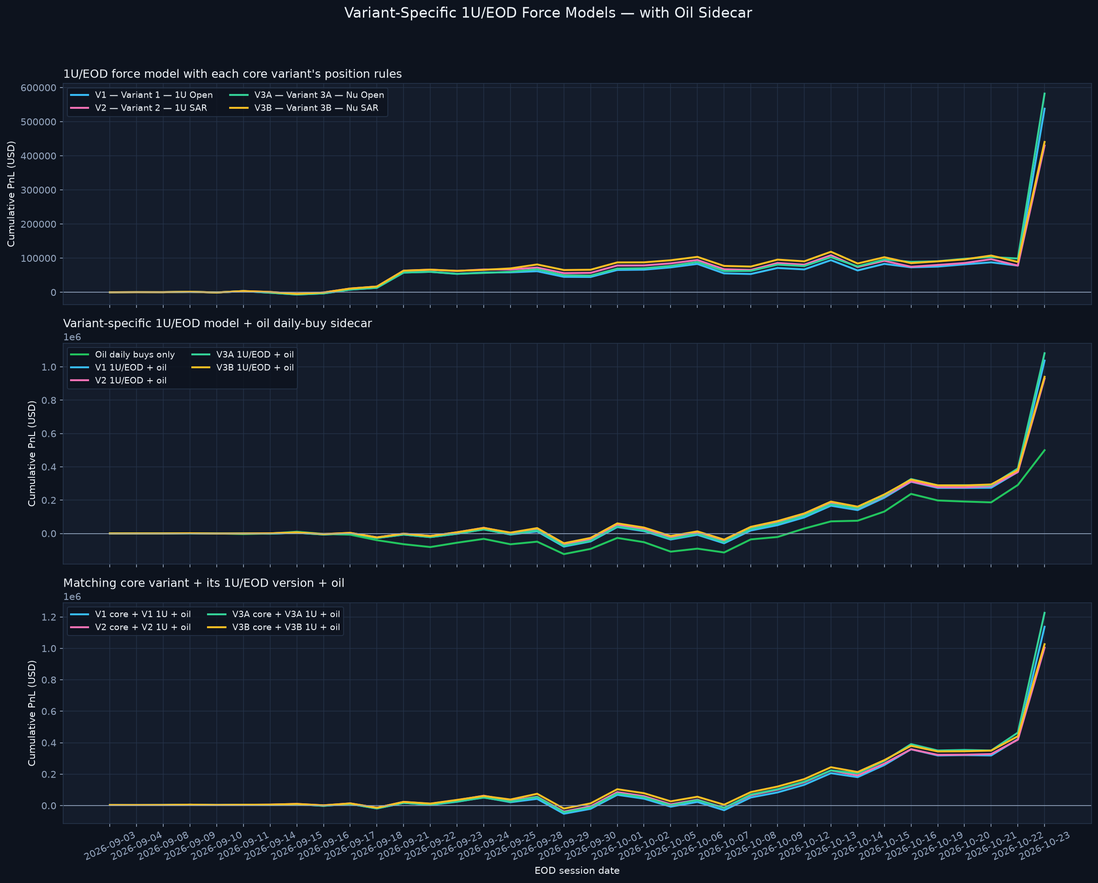
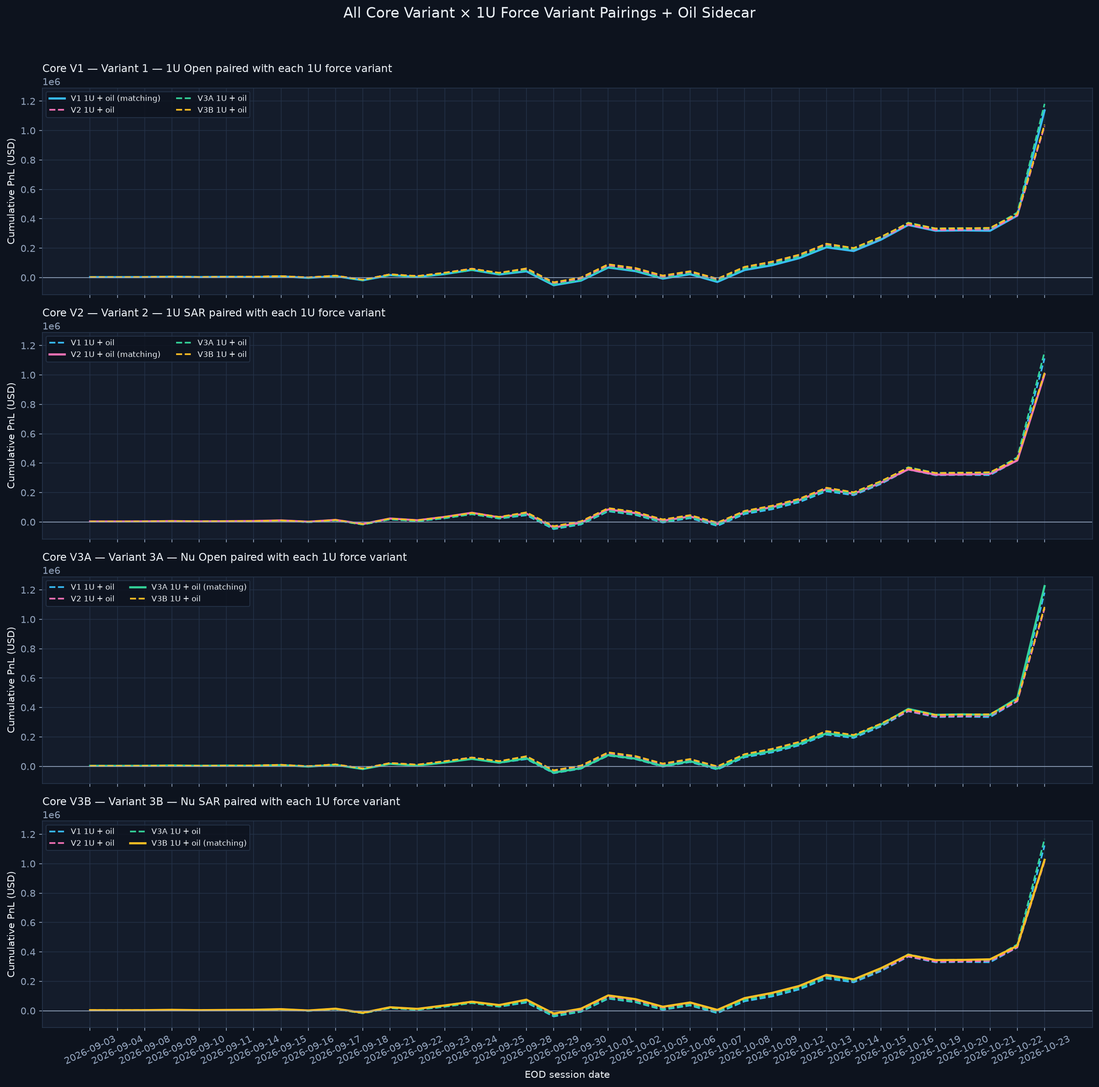
Add cross-variant core and 1U combinations

diff --git a/scripts/build_strategy_sidecar_comparison.py b/scripts/build_strategy_sidecar_comparison.py
@@ -376,13 +376,6 @@ def comparison_rows():
             variant_pnl = float(variant_row[f"{variant}_force_1u_pnl_usd"])
             variant_added = float(variant_row[f"{variant}_force_1u_cumulative_notional_added_usd"])
             variant_open = float(variant_row[f"{variant}_force_1u_open_notional_usd"])
-            core_open = sum(
-                lot["qty"] * UNIT
-                for lot in core[variant]["lots"]
-                if lot["entry_idx"] <= i
-                and (lot["close_idx"] is None or i < lot["close_idx"])
-            )
-            core_added = float(core[variant]["deployed"][i])
             row[f"{variant}_core_pnl_usd"] = f"{base:.2f}"
             row[f"{variant}_plus_exponential_500_pnl_usd"] = f"{base + exp_pnl:.2f}"
             row[f"{variant}_plus_force_multiplier_pnl_usd"] = f"{base + force_pnl:.2f}"
@@ -392,10 +385,32 @@ def comparison_rows():
             row[f"{variant}_force_1u_plus_oil_pnl_usd"] = f"{variant_pnl + oil_today:.2f}"
             row[f"{variant}_force_1u_plus_oil_cumulative_notional_usd"] = f"{variant_added + oil_open_today:.2f}"
             row[f"{variant}_force_1u_plus_oil_open_notional_usd"] = f"{variant_open + oil_open_today:.2f}"
-            row[f"{variant}_core_plus_matching_force_1u_and_oil_pnl_usd"] = f"{base + variant_pnl + oil_today:.2f}"
-            row[f"{variant}_core_plus_matching_force_1u_and_oil_cumulative_notional_usd"] = f"{core_added + variant_added + oil_open_today:.2f}"
-            row[f"{variant}_core_plus_matching_force_1u_and_oil_open_notional_usd"] = f"{core_open + variant_open + oil_open_today:.2f}"
             row.update({key: value for key, value in variant_row.items() if key != "date"})
+
+        for core_variant in VARIANTS:
+            core_pnl = float(core[core_variant]["total"][i])
+            core_added = float(core[core_variant]["deployed"][i])
+            core_open = sum(
+                lot["qty"] * UNIT
+                for lot in core[core_variant]["lots"]
+                if lot["entry_idx"] <= i
+                and (lot["close_idx"] is None or i < lot["close_idx"])
+            )
+            for force_variant in VARIANTS:
+                force_variant_row = variant_daily[force_variant][i]
+                force_variant_pnl = float(force_variant_row[f"{force_variant}_force_1u_pnl_usd"])
+                force_variant_added = float(
+                    force_variant_row[f"{force_variant}_force_1u_cumulative_notional_added_usd"]
+                )
+                force_variant_open = float(force_variant_row[f"{force_variant}_force_1u_open_notional_usd"])
+                prefix = f"{core_variant}_core_plus_{force_variant}_force_1u_and_oil"
+                row[f"{prefix}_pnl_usd"] = f"{core_pnl + force_variant_pnl + oil_today:.2f}"
+                row[f"{prefix}_cumulative_notional_usd"] = (
+                    f"{core_added + force_variant_added + oil_open_today:.2f}"
+                )
+                row[f"{prefix}_open_notional_usd"] = (
+                    f"{core_open + force_variant_open + oil_open_today:.2f}"
+                )
         row.update(exp)
         row.update(force)
         rows.append(row)
@@ -518,56 +533,47 @@ def write_chart(rows):
 
 
 def write_variant_chart(rows):
-    """Focused chart for variant-specific 1U/EOD force models and oil composites."""
+    """Plot every core-variant x 1U-variant pairing with the oil sidecar."""
     CHARTS.mkdir(parents=True, exist_ok=True)
     dates = [row["date"] for row in rows]
-    variants = {
-        variant: [float(row[f"{variant}_force_1u_pnl_usd"]) for row in rows]
-        for variant in VARIANTS
-    }
-    with_oil = {
-        variant: [float(row[f"{variant}_force_1u_plus_oil_pnl_usd"]) for row in rows]
-        for variant in VARIANTS
-    }
-    matched = {
-        variant: [float(row[f"{variant}_core_plus_matching_force_1u_and_oil_pnl_usd"]) for row in rows]
-        for variant in VARIANTS
-    }
-    oil = [float(row["oil_desk_daily_buy_pnl_usd"]) for row in rows]
-    panels = [
-        ("1U/EOD force model with each core variant's position rules", [
-            (f"{variant} — {VARIANT_LABEL[variant]}", variants[variant], VARIANT_COLORS[variant])
-            for variant in VARIANTS
-        ]),
-        ("Variant-specific 1U/EOD model + oil daily-buy sidecar", [
-            ("Oil daily buys only", oil, OIL_COLOR)
-        ] + [
-            (f"{variant} 1U/EOD + oil", with_oil[variant], VARIANT_COLORS[variant])
-            for variant in VARIANTS
-        ]),
-        ("Matching core variant + its 1U/EOD version + oil", [
-            (f"{variant} core + {variant} 1U + oil", matched[variant], VARIANT_COLORS[variant])
-            for variant in VARIANTS
-        ]),
-    ]
-    fig, axes = plt.subplots(len(panels), 1, figsize=(16, 13), sharex=True)
+    fig, axes = plt.subplots(len(VARIANTS), 1, figsize=(16, 16), sharex=True, sharey=True)
     fig.patch.set_facecolor("#0d131e")
-    for ax, (title, lines) in zip(axes, panels):
+    for ax, core_variant in zip(axes, VARIANTS):
         ax.set_facecolor("#141c2b")
         ax.grid(True, color="#26344a", alpha=0.8)
         ax.tick_params(colors="#93a4bd")
         for spine in ax.spines.values():
             spine.set_color("#26344a")
-        for label, values, color in lines:
-            ax.plot(dates, values, color=color, linewidth=2.0, label=label)
+        for force_variant in VARIANTS:
+            prefix = f"{core_variant}_core_plus_{force_variant}_force_1u_and_oil"
+            values = [float(row[f"{prefix}_pnl_usd"]) for row in rows]
+            pairing = " (matching)" if core_variant == force_variant else ""
+            matching = core_variant == force_variant
+            ax.plot(
+                dates,
+                values,
+                color=VARIANT_COLORS[force_variant],
+                linewidth=2.2 if matching else 1.7,
+                linestyle="-" if matching else "--",
+                label=f"{force_variant} 1U + oil{pairing}",
+            )
         ax.axhline(0, color="#93a4bd", linewidth=0.8)
-        ax.set_title(title, color="#edf2f7", loc="left", fontsize=12)
+        ax.set_title(
+            f"Core {core_variant} — {VARIANT_LABEL[core_variant]} paired with each 1U force variant",
+            color="#edf2f7",
+            loc="left",
+            fontsize=11,
+        )
         ax.set_ylabel("Cumulative PnL (USD)", color="#edf2f7")
-        ax.legend(facecolor="#0d131e", edgecolor="#26344a", labelcolor="#edf2f7", fontsize=9, ncol=2)
+        ax.legend(facecolor="#0d131e", edgecolor="#26344a", labelcolor="#edf2f7", fontsize=8, ncol=2)
     axes[-1].set_xlabel("EOD session date", color="#edf2f7")
     axes[-1].tick_params(axis="x", rotation=25)
-    fig.suptitle("Variant-Specific 1U/EOD Force Models — with Oil Sidecar", color="#edf2f7", fontsize=15)
-    fig.tight_layout(rect=(0, 0, 1, 0.95))
+    fig.suptitle(
+        "All Core Variant × 1U Force Variant Pairings + Oil Sidecar",
+        color="#edf2f7",
+        fontsize=15,
+    )
+    fig.tight_layout(rect=(0, 0, 1, 0.96))
     fig.savefig(VARIANT_GRAPH, dpi=150, facecolor=fig.get_facecolor(), bbox_inches="tight")
     plt.close(fig)
     return VARIANT_GRAPH
@@ -593,7 +599,7 @@ def write_report(rows):
         "- **Shared-direction force multiplier (1U/EOD):** one 1U tranche per symbol with a carried direction each priced EOD; close all prior lots at the EOD mark on any LONG/SHORT flip. This remains a separate alternative to the $500 model.",
         "- **Variant-specific 1U/EOD force family:** four separate daily-addition replays apply V1, V2, V3A, or V3B position handling to the 1U schedule. Explicit EXIT/TAKE PROFIT records close open long lots at their logged prices in all four; the carried direction remains active, so the scheduled EOD addition still occurs. V1/V3A leave opposite-side lots open on direction changes. V2/V3B cover shorts on LONG/REBUY at the logged signal price; as in the core implementation, SHORT does not close open longs. A qualifying V3A/V3B compounded-short entry uses the preceding full-exit unit count for that event-day tranche only; subsequent carried days return to 1U additions.",
         "- **Signal timing:** direction-bearing LONG/SHORT/REBUY events map to the first priced session on or after their log date; the last directional event for a ticker on that session selects the EOD addition direction. EXIT / TAKE PROFIT rows do not clear carried direction. No separate authorization feed exists.",
-        "- **Additive comparisons:** core models are shown with shared $500/1U add-ons and oil; variant-specific force models are shown alone, with oil, and with their matching core variant plus oil. These are separately modeled PnL/notional sums: do not net positions or capital, duplicate core chart-opened energy positions in the oil sidecar, or stack alternative force models or variant rules.",
+        "- **Additive comparisons:** core models are shown with shared $500/1U add-ons and oil; variant-specific force models are shown alone, with oil, and in all 16 core-variant × 1U-variant pairings plus oil. Matching and cross-variant combinations are included. These are separately modeled PnL/notional sums: do not net positions or capital, duplicate core chart-opened energy positions in the oil sidecar, or stack alternative force models or variant rules.",
         "- Universe: all 33 directly price-covered core tickers; DXY, EURUSD, JPYUSD, US10Y, and US30Y are outside this price-position comparison.",
         "",
         "## Standalone model and sidecar terminal comparison — Oct. 23, 2026",
@@ -617,11 +623,13 @@ def write_report(rows):
         "",
         "## Variant-specific 1U/EOD force models and oil combinations — terminal",
         "",
-        "These four alternative daily-addition books keep the 1U/EOD schedule but apply each core variant's exit/SAR/short-compounding behavior. The oil line adds only the daily-buy sidecar. The last table adds each variant-based force model to its matching core variant plus oil; it is an additive comparison, not a netted or capital-normalized account.",
+        "The four separate 1U/EOD models apply V1, V2, V3A, or V3B exit/SAR/short-compounding behavior. The oil sidecar contributes only its daily-buy PnL and gross notional. The graph below covers all 16 core-variant × 1U-variant pairings; each panel fixes the core variant and plots all four 1U models. Matching pairings are labeled, while the cross-variant pairings expose alternative position-management combinations.",
         "",
-        "![Variant-specific 1U EOD force models with oil sidecar](Charts/performance/21-force-variant-oil-comparison.png)",
+        "All composite PnL/notional figures are additive USD totals. Positions and capital are not netted, and energy chart-opened core positions are not duplicated in the sidecar.",
         "",
-        "| Variant rule set | Standalone force PnL | Cumulative notional added | Open notional |",
+        "![All core variant and 1U force variant pairings with oil sidecar](Charts/performance/21-force-variant-oil-comparison.png)",
+        "",
+        "| 1U/EOD variant rule | Standalone force PnL | Cumulative notional added | Open notional |",
         "|---|---:|---:|---:|",
     ])
     for variant in VARIANTS:
@@ -632,7 +640,7 @@ def write_report(rows):
         )
     lines.extend([
         "",
-        "| Variant rule set | Force model + oil PnL | Combined cumulative notional | Combined open notional |",
+        "| 1U/EOD variant rule | Force model + oil PnL | Combined cumulative notional | Combined open notional |",
         "|---|---:|---:|---:|",
     ])
     for variant in VARIANTS:
@@ -643,19 +651,29 @@ def write_report(rows):
         )
     lines.extend([
         "",
-        "| Matched core + force variant + oil | Core PnL | Force PnL | Oil PnL | Composite PnL | Gross cumulative notional | Gross open notional |",
-        "|---|---:|---:|---:|---:|---:|---:|",
+        "## All core + 1U force variant pairings + oil — terminal",
+        "",
     ])
-    for variant in VARIANTS:
-        lines.append(
-            f"| {VARIANT_LABEL[variant]} + matching 1U/EOD rules + oil | "
-            f"${float(last[f'{variant}_core_pnl_usd']):+,.2f} | "
-            f"${float(last[f'{variant}_force_1u_pnl_usd']):+,.2f} | "
-            f"${float(last['oil_desk_daily_buy_pnl_usd']):+,.2f} | "
-            f"${float(last[f'{variant}_core_plus_matching_force_1u_and_oil_pnl_usd']):+,.2f} | "
-            f"${float(last[f'{variant}_core_plus_matching_force_1u_and_oil_cumulative_notional_usd']):,.2f} | "
-            f"${float(last[f'{variant}_core_plus_matching_force_1u_and_oil_open_notional_usd']):,.2f} |"
-        )
+    for core_variant in VARIANTS:
+        lines.extend([
+            f"### Core {core_variant} — {VARIANT_LABEL[core_variant]}",
+            "",
+            f"Core PnL: **${float(last[f'{core_variant}_core_pnl_usd']):+,.2f}**; oil sidecar PnL: **${float(last['oil_desk_daily_buy_pnl_usd']):+,.2f}**.",
+            "",
+            "| 1U/EOD force variant | Pairing | Force PnL | Composite PnL | Gross cumulative notional | Gross open notional |",
+            "|---|---|---:|---:|---:|---:|",
+        ])
+        for force_variant in VARIANTS:
+            prefix = f"{core_variant}_core_plus_{force_variant}_force_1u_and_oil"
+            pairing = "Matching" if core_variant == force_variant else "Cross-variant"
+            lines.append(
+                f"| {VARIANT_LABEL[force_variant]} | {pairing} | "
+                f"${float(last[f'{force_variant}_force_1u_pnl_usd']):+,.2f} | "
+                f"${float(last[f'{prefix}_pnl_usd']):+,.2f} | "
+                f"${float(last[f'{prefix}_cumulative_notional_usd']):,.2f} | "
+                f"${float(last[f'{prefix}_open_notional_usd']):,.2f} |"
+            )
+        lines.append("")
     lines.extend([
         "",
         "## Core variants with add-ons — terminal PnL",

diff --git a/tests/test_strategy_sidecar_comparison.py b/tests/test_strategy_sidecar_comparison.py
@@ -12,7 +12,7 @@ from build_strategy_sidecar_comparison import (  # noqa: E402
     force_multiplier_daily_model,
     variant_force_multiplier_daily_model,
 )
-from model_perf_core import SESSION_DATES, parse_trades  # noqa: E402
+from model_perf_core import SESSION_DATES, UNIT, parse_trades  # noqa: E402
 
 
 class StrategySidecarComparisonTests(unittest.TestCase):
@@ -107,8 +107,39 @@ class StrategySidecarComparisonTests(unittest.TestCase):
         self.assertEqual(terminal["V3B_force_1u_pnl_usd"], "440601.08")
         self.assertEqual(terminal["V1_force_1u_plus_oil_pnl_usd"], "1037643.20")
         self.assertEqual(terminal["V3A_force_1u_plus_oil_pnl_usd"], "1081983.96")
-        self.assertEqual(terminal["V1_core_plus_matching_force_1u_and_oil_pnl_usd"], "1137242.87")
-        self.assertEqual(terminal["V3A_core_plus_matching_force_1u_and_oil_pnl_usd"], "1225786.98")
+        combo_count = 0
+        for core_variant in ("V1", "V2", "V3A", "V3B"):
+            core_added = float(core[core_variant]["deployed"][-1])
+            core_open = sum(
+                lot["qty"] * UNIT
+                for lot in core[core_variant]["lots"]
+                if lot["entry_idx"] <= len(rows) - 1
+                and (lot["close_idx"] is None or len(rows) - 1 < lot["close_idx"])
+            )
+            for force_variant in ("V1", "V2", "V3A", "V3B"):
+                prefix = f"{core_variant}_core_plus_{force_variant}_force_1u_and_oil"
+                expected_pnl = (
+                    float(terminal[f"{core_variant}_core_pnl_usd"])
+                    + float(terminal[f"{force_variant}_force_1u_pnl_usd"])
+                    + float(terminal["oil_desk_daily_buy_pnl_usd"])
+                )
+                expected_added = (
+                    core_added
+                    + float(terminal[f"{force_variant}_force_1u_cumulative_notional_added_usd"])
+                    + float(terminal["oil_desk_cumulative_notional_usd"])
+                )
+                expected_open = (
+                    core_open
+                    + float(terminal[f"{force_variant}_force_1u_open_notional_usd"])
+                    + float(terminal["oil_desk_open_notional_usd"])
+                )
+                self.assertEqual(terminal[f"{prefix}_pnl_usd"], f"{expected_pnl:.2f}")
+                self.assertEqual(terminal[f"{prefix}_cumulative_notional_usd"], f"{expected_added:.2f}")
+                self.assertEqual(terminal[f"{prefix}_open_notional_usd"], f"{expected_open:.2f}")
+                combo_count += 1
+        self.assertEqual(combo_count, 16)
+        self.assertEqual(terminal["V1_core_plus_V1_force_1u_and_oil_pnl_usd"], "1137242.87")
+        self.assertEqual(terminal["V3A_core_plus_V3A_force_1u_and_oil_pnl_usd"], "1225786.98")
         self.assertEqual(terminal["oil_desk_cumulative_notional_usd"], "5500000.00")
         before_oil = next(row for row in rows if row["date"] == "2026-09-09")
         first_oil = next(row for row in rows if row["date"] == "2026-09-10")
@@ -123,6 +154,10 @@ class StrategySidecarComparisonTests(unittest.TestCase):
         self.assertIn("Variant-specific 1U/EOD force models and oil combinations", report_text)
         self.assertIn("force_multiplier_variant_eod_positions_v1.csv", report_text)
         self.assertIn("21-force-variant-oil-comparison.png", report_text)
+        self.assertIn("All core + 1U force variant pairings + oil", report_text)
+        self.assertIn("Cross-variant", report_text)
+        self.assertEqual(report_text.count("| Matching |"), 4)
+        self.assertEqual(report_text.count("| Cross-variant |"), 12)
         audit_path = Path(__file__).resolve().parents[1] / "data" / "force_multiplier_eod_positions_v1.csv"
         with audit_path.open(newline="", encoding="utf-8") as handle:
             force_audit = list(csv.DictReader(handle))

diff --git a/Strategy and Sidecar Comparison.md b/Strategy and Sidecar Comparison.md
@@ -11,7 +11,7 @@ Calculation detail for the core variants and daily lot rules: [`Model Calculatio
 - **Shared-direction force multiplier (1U/EOD):** one 1U tranche per symbol with a carried direction each priced EOD; close all prior lots at the EOD mark on any LONG/SHORT flip. This remains a separate alternative to the $500 model.
 - **Variant-specific 1U/EOD force family:** four separate daily-addition replays apply V1, V2, V3A, or V3B position handling to the 1U schedule. Explicit EXIT/TAKE PROFIT records close open long lots at their logged prices in all four; the carried direction remains active, so the scheduled EOD addition still occurs. V1/V3A leave opposite-side lots open on direction changes. V2/V3B cover shorts on LONG/REBUY at the logged signal price; as in the core implementation, SHORT does not close open longs. A qualifying V3A/V3B compounded-short entry uses the preceding full-exit unit count for that event-day tranche only; subsequent carried days return to 1U additions.
 - **Signal timing:** direction-bearing LONG/SHORT/REBUY events map to the first priced session on or after their log date; the last directional event for a ticker on that session selects the EOD addition direction. EXIT / TAKE PROFIT rows do not clear carried direction. No separate authorization feed exists.
-- **Additive comparisons:** core models are shown with shared $500/1U add-ons and oil; variant-specific force models are shown alone, with oil, and with their matching core variant plus oil. These are separately modeled PnL/notional sums: do not net positions or capital, duplicate core chart-opened energy positions in the oil sidecar, or stack alternative force models or variant rules.
+- **Additive comparisons:** core models are shown with shared $500/1U add-ons and oil; variant-specific force models are shown alone, with oil, and in all 16 core-variant × 1U-variant pairings plus oil. Matching and cross-variant combinations are included. These are separately modeled PnL/notional sums: do not net positions or capital, duplicate core chart-opened energy positions in the oil sidecar, or stack alternative force models or variant rules.
 - Universe: all 33 directly price-covered core tickers; DXY, EURUSD, JPYUSD, US10Y, and US30Y are outside this price-position comparison.
 
 ## Standalone model and sidecar terminal comparison — Oct. 23, 2026
@@ -28,30 +28,72 @@ The $500 model ends at **$+21,118.86** (realized $+4,356.35; unrealized $+16,762
 
 ## Variant-specific 1U/EOD force models and oil combinations — terminal
 
-These four alternative daily-addition books keep the 1U/EOD schedule but apply each core variant's exit/SAR/short-compounding behavior. The oil line adds only the daily-buy sidecar. The last table adds each variant-based force model to its matching core variant plus oil; it is an additive comparison, not a netted or capital-normalized account.
+The four separate 1U/EOD models apply V1, V2, V3A, or V3B exit/SAR/short-compounding behavior. The oil sidecar contributes only its daily-buy PnL and gross notional. The graph below covers all 16 core-variant × 1U-variant pairings; each panel fixes the core variant and plots all four 1U models. Matching pairings are labeled, while the cross-variant pairings expose alternative position-management combinations.
 
-![Variant-specific 1U EOD force models with oil sidecar](Charts/performance/21-force-variant-oil-comparison.png)
+All composite PnL/notional figures are additive USD totals. Positions and capital are not netted, and energy chart-opened core positions are not duplicated in the sidecar.
 
-| Variant rule set | Standalone force PnL | Cumulative notional added | Open notional |
+![All core variant and 1U force variant pairings with oil sidecar](Charts/performance/21-force-variant-oil-comparison.png)
+
+| 1U/EOD variant rule | Standalone force PnL | Cumulative notional added | Open notional |
 |---|---:|---:|---:|
 | Variant 1 — 1U Open | $+537,937.28 | $7,280,000.00 | $6,510,000.00 |
 | Variant 2 — 1U SAR | $+429,919.69 | $7,280,000.00 | $6,310,000.00 |
 | Variant 3A — Nu Open | $+582,278.04 | $7,370,000.00 | $6,600,000.00 |
 | Variant 3B — Nu SAR | $+440,601.08 | $7,370,000.00 | $6,310,000.00 |
 
-| Variant rule set | Force model + oil PnL | Combined cumulative notional | Combined open notional |
+| 1U/EOD variant rule | Force model + oil PnL | Combined cumulative notional | Combined open notional |
 |---|---:|---:|---:|
 | Variant 1 — 1U Open + oil | $+1,037,643.20 | $12,780,000.00 | $12,010,000.00 |
 | Variant 2 — 1U SAR + oil | $+929,625.61 | $12,780,000.00 | $11,810,000.00 |
 | Variant 3A — Nu Open + oil | $+1,081,983.96 | $12,870,000.00 | $12,100,000.00 |
 | Variant 3B — Nu SAR + oil | $+940,307.00 | $12,870,000.00 | $11,810,000.00 |
 
-| Matched core + force variant + oil | Core PnL | Force PnL | Oil PnL | Composite PnL | Gross cumulative notional | Gross open notional |
-|---|---:|---:|---:|---:|---:|---:|
-| Variant 1 — 1U Open + matching 1U/EOD rules + oil | $+99,599.67 | $+537,937.28 | $+499,705.92 | $+1,137,242.87 | $13,625,000.00 | $12,705,000.00 |
-| Variant 2 — 1U SAR + matching 1U/EOD rules + oil | $+74,882.36 | $+429,919.69 | $+499,705.92 | $+1,004,507.97 | $13,625,000.00 | $12,455,000.00 |
-| Variant 3A — Nu Open + matching 1U/EOD rules + oil | $+143,803.02 | $+582,278.04 | $+499,705.92 | $+1,225,786.98 | $13,805,000.00 | $12,885,000.00 |
-| Variant 3B — Nu SAR + matching 1U/EOD rules + oil | $+86,049.06 | $+440,601.08 | $+499,705.92 | $+1,026,356.06 | $13,805,000.00 | $12,455,000.00 |
+## All core + 1U force variant pairings + oil — terminal
+
+### Core V1 — Variant 1 — 1U Open
+
+Core PnL: **$+99,599.67**; oil sidecar PnL: **$+499,705.92**.
+
+| 1U/EOD force variant | Pairing | Force PnL | Composite PnL | Gross cumulative notional | Gross open notional |
+|---|---|---:|---:|---:|---:|
+| Variant 1 — 1U Open | Matching | $+537,937.28 | $+1,137,242.87 | $13,625,000.00 | $12,705,000.00 |
+| Variant 2 — 1U SAR | Cross-variant | $+429,919.69 | $+1,029,225.28 | $13,625,000.00 | $12,505,000.00 |
+| Variant 3A — Nu Open | Cross-variant | $+582,278.04 | $+1,181,583.63 | $13,715,000.00 | $12,795,000.00 |
+| Variant 3B — Nu SAR | Cross-variant | $+440,601.08 | $+1,039,906.67 | $13,715,000.00 | $12,505,000.00 |
+
+### Core V2 — Variant 2 — 1U SAR
+
+Core PnL: **$+74,882.36**; oil sidecar PnL: **$+499,705.92**.
+
+| 1U/EOD force variant | Pairing | Force PnL | Composite PnL | Gross cumulative notional | Gross open notional |
+|---|---|---:|---:|---:|---:|
+| Variant 1 — 1U Open | Cross-variant | $+537,937.28 | $+1,112,525.56 | $13,625,000.00 | $12,655,000.00 |
+| Variant 2 — 1U SAR | Matching | $+429,919.69 | $+1,004,507.97 | $13,625,000.00 | $12,455,000.00 |
+| Variant 3A — Nu Open | Cross-variant | $+582,278.04 | $+1,156,866.32 | $13,715,000.00 | $12,745,000.00 |
+| Variant 3B — Nu SAR | Cross-variant | $+440,601.08 | $+1,015,189.36 | $13,715,000.00 | $12,455,000.00 |
+
+### Core V3A — Variant 3A — Nu Open
+
+Core PnL: **$+143,803.02**; oil sidecar PnL: **$+499,705.92**.
+
+| 1U/EOD force variant | Pairing | Force PnL | Composite PnL | Gross cumulative notional | Gross open notional |
+|---|---|---:|---:|---:|---:|
+| Variant 1 — 1U Open | Cross-variant | $+537,937.28 | $+1,181,446.22 | $13,715,000.00 | $12,795,000.00 |
+| Variant 2 — 1U SAR | Cross-variant | $+429,919.69 | $+1,073,428.63 | $13,715,000.00 | $12,595,000.00 |
+| Variant 3A — Nu Open | Matching | $+582,278.04 | $+1,225,786.98 | $13,805,000.00 | $12,885,000.00 |
+| Variant 3B — Nu SAR | Cross-variant | $+440,601.08 | $+1,084,110.02 | $13,805,000.00 | $12,595,000.00 |
+
+### Core V3B — Variant 3B — Nu SAR
+
+Core PnL: **$+86,049.06**; oil sidecar PnL: **$+499,705.92**.
+
+| 1U/EOD force variant | Pairing | Force PnL | Composite PnL | Gross cumulative notional | Gross open notional |
+|---|---|---:|---:|---:|---:|
+| Variant 1 — 1U Open | Cross-variant | $+537,937.28 | $+1,123,692.26 | $13,715,000.00 | $12,655,000.00 |
+| Variant 2 — 1U SAR | Cross-variant | $+429,919.69 | $+1,015,674.67 | $13,715,000.00 | $12,455,000.00 |
+| Variant 3A — Nu Open | Cross-variant | $+582,278.04 | $+1,168,033.02 | $13,805,000.00 | $12,745,000.00 |
+| Variant 3B — Nu SAR | Matching | $+440,601.08 | $+1,026,356.06 | $13,805,000.00 | $12,455,000.00 |
+
 
 ## Core variants with add-ons — terminal PnL
 

diff --git a/Model Calculation Guide.md b/Model Calculation Guide.md
@@ -110,7 +110,7 @@ On every priced EOD with a carried direction, the variant model adds one 1U lot.
 - **V3A/V3B natural-unit behavior:** if a SHORT event is tagged “Compounded short” and the preceding full exit recorded more than 1 unit, that event-day tranche uses the preceding exit's unit count (for example, 2U or 5U). Subsequent carried SHORT days return to 1U additions. This is a one-day sizing override to the baseline daily 1U schedule, not a compounded or reinvested PnL amount.
 - If several directional events for a ticker occur on one session, process them in log order; the final direction determines that session's EOD addition. Weekend/holiday events apply on the first priced session on or after the event date.
 
-The comparison includes each variant-specific model alone, that model plus the incremental oil daily-buy sidecar, and an additive matched composite of core V1 + its V1-based daily model + oil (likewise for V2, V3A, and V3B). The matched composite is illustrative additive PnL; it is not an account simulation and does not net or merge overlapping lots.
+The comparison includes each variant-specific model alone and with the incremental oil daily-buy sidecar, plus all 16 additive pairings of a core variant with any of the four variant-specific 1U models and oil. Matching and cross-variant pairings are shown separately. These are illustrative additive PnL/gross-notional comparisons, not account simulations; positions and capital are not netted or merged.
 
 ## 6. Oil-desk daily-buy sidecar
 
@@ -129,13 +129,13 @@ A composite line is additive PnL, session by session:
 
 `composite PnL = core-variant PnL + selected independent add-on PnL(s)`
 
-A composite adds the core PnL to a selected 1U/$500 force-model alternative and/or the oil daily-buy sidecar, as labeled in the comparison. The four variant-specific 1U/EOD models are alternatives to one another and to the shared-direction 1U model; they are never stacked together. Matched core-plus-variant-model-plus-oil lines are shown separately. These are not capital-normalized account simulations; comparing raw dollar PnL without considering deployed/open notional can be misleading. They are not included in the separate whole-portfolio DXY/yield multiplier scenarios.
+A composite adds the core PnL to a selected 1U/$500 force-model alternative and/or the oil daily-buy sidecar, as labeled in the comparison. The four variant-specific 1U/EOD models are alternatives to one another and to the shared-direction 1U model; they are never stacked together. The comparison shows all 16 core-variant × 1U-variant pairings with oil, including both matching and cross-variant combinations. These are not capital-normalized account simulations; comparing raw dollar PnL without considering gross deployed/open notional can be misleading. They are not included in the separate whole-portfolio DXY/yield multiplier scenarios.
 
 ## 8. Where to inspect the calculations
 
 - Core definitions and daily calculations: [`scripts/model_perf_core.py`](scripts/model_perf_core.py).
 - Direction-following models and variant-specific EOD alternatives: [`scripts/build_strategy_sidecar_comparison.py`](scripts/build_strategy_sidecar_comparison.py), [`data/exponential_eod_positions_v1.csv`](data/exponential_eod_positions_v1.csv), [`data/force_multiplier_eod_positions_v1.csv`](data/force_multiplier_eod_positions_v1.csv), and [`data/force_multiplier_variant_eod_positions_v1.csv`](data/force_multiplier_variant_eod_positions_v1.csv).
-- Daily composite PnL and exposure series: [`data/strategy_sidecar_comparison_daily_v1.csv`](data/strategy_sidecar_comparison_daily_v1.csv); focused variant/sidecar chart: [`Charts/performance/21-force-variant-oil-comparison.png`](Charts/performance/21-force-variant-oil-comparison.png).
+- Daily composite PnL and exposure series: [`data/strategy_sidecar_comparison_daily_v1.csv`](data/strategy_sidecar_comparison_daily_v1.csv); all 16 core/1U variant pairings with oil: [`Charts/performance/21-force-variant-oil-comparison.png`](Charts/performance/21-force-variant-oil-comparison.png).
 - Oil daily-buy lot audit: [`data/oil_desk_eod_accumulation_v1.csv`](data/oil_desk_eod_accumulation_v1.csv).
 - Price-source details: [`data/active_price_source_registry_v2.csv`](data/active_price_source_registry_v2.csv) and [`data/energy_provider_eod_marks_v1.csv`](data/energy_provider_eod_marks_v1.csv).
 - Latest results: [`Model Performance Comparison.md`](Model%20Performance%20Comparison.md), [`Strategy and Sidecar Comparison.md`](Strategy%20and%20Sidecar%20Comparison.md), and [`Oil Desk EOD Accumulation Hypothetical.md`](Oil%20Desk%20EOD%20Accumulation%20Hypothetical.md).
